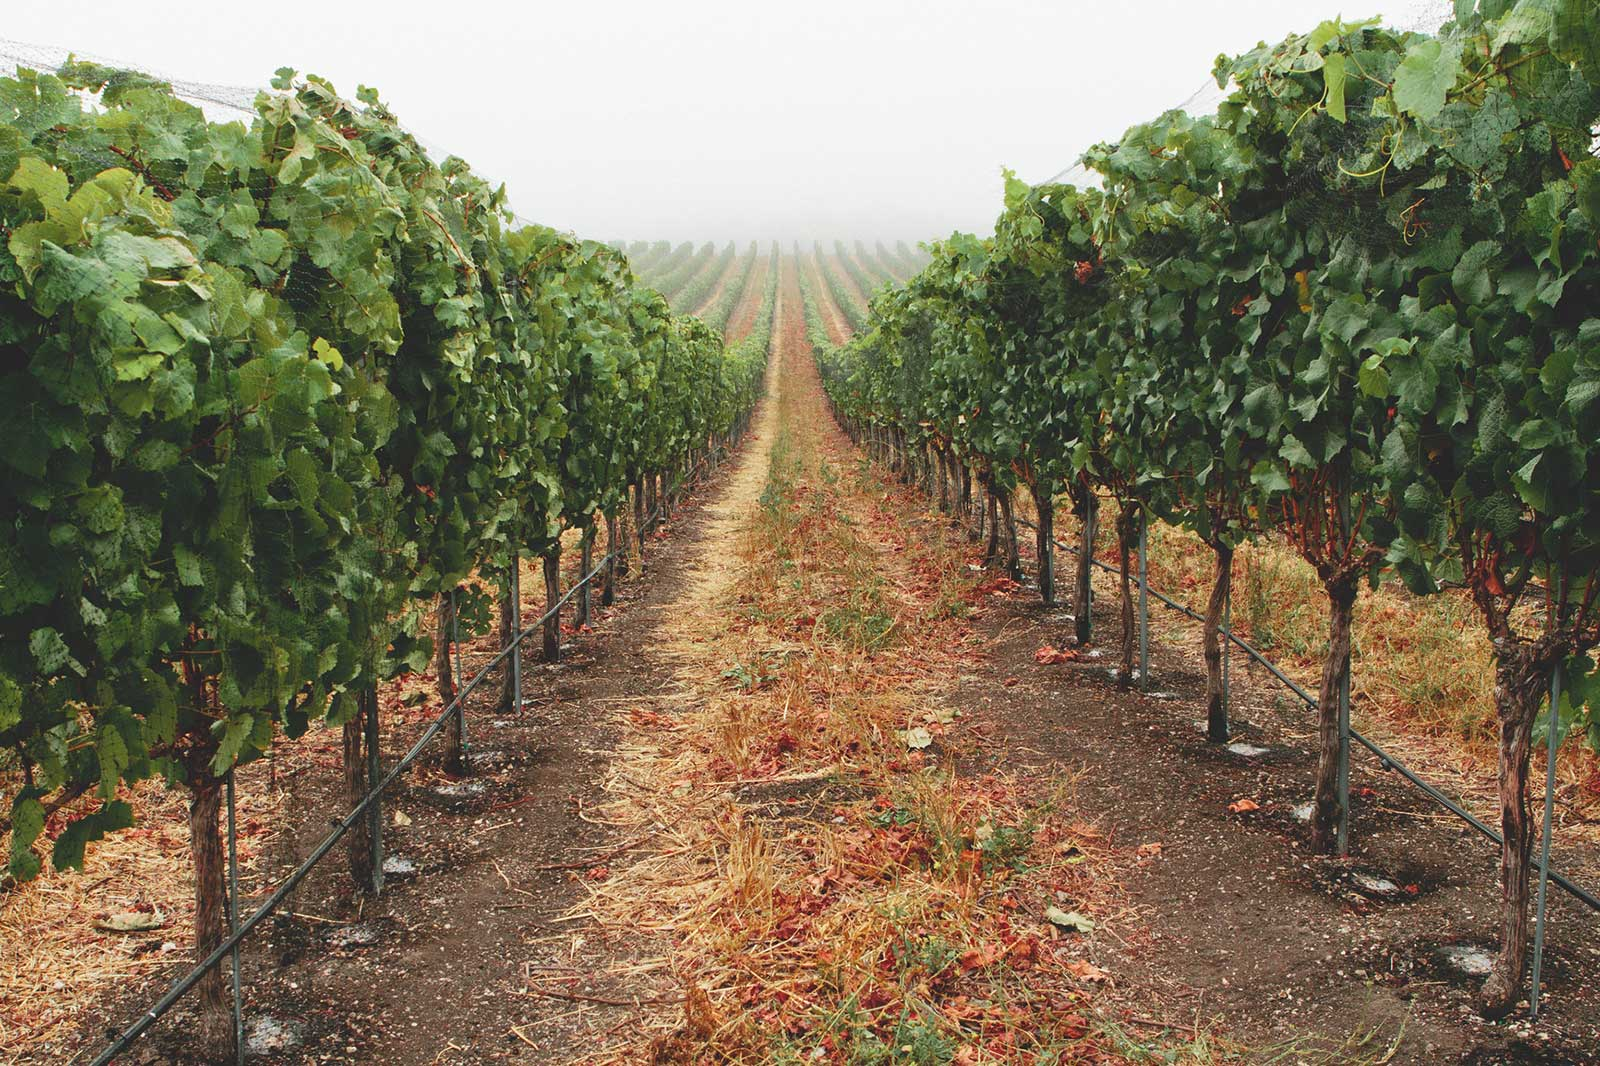
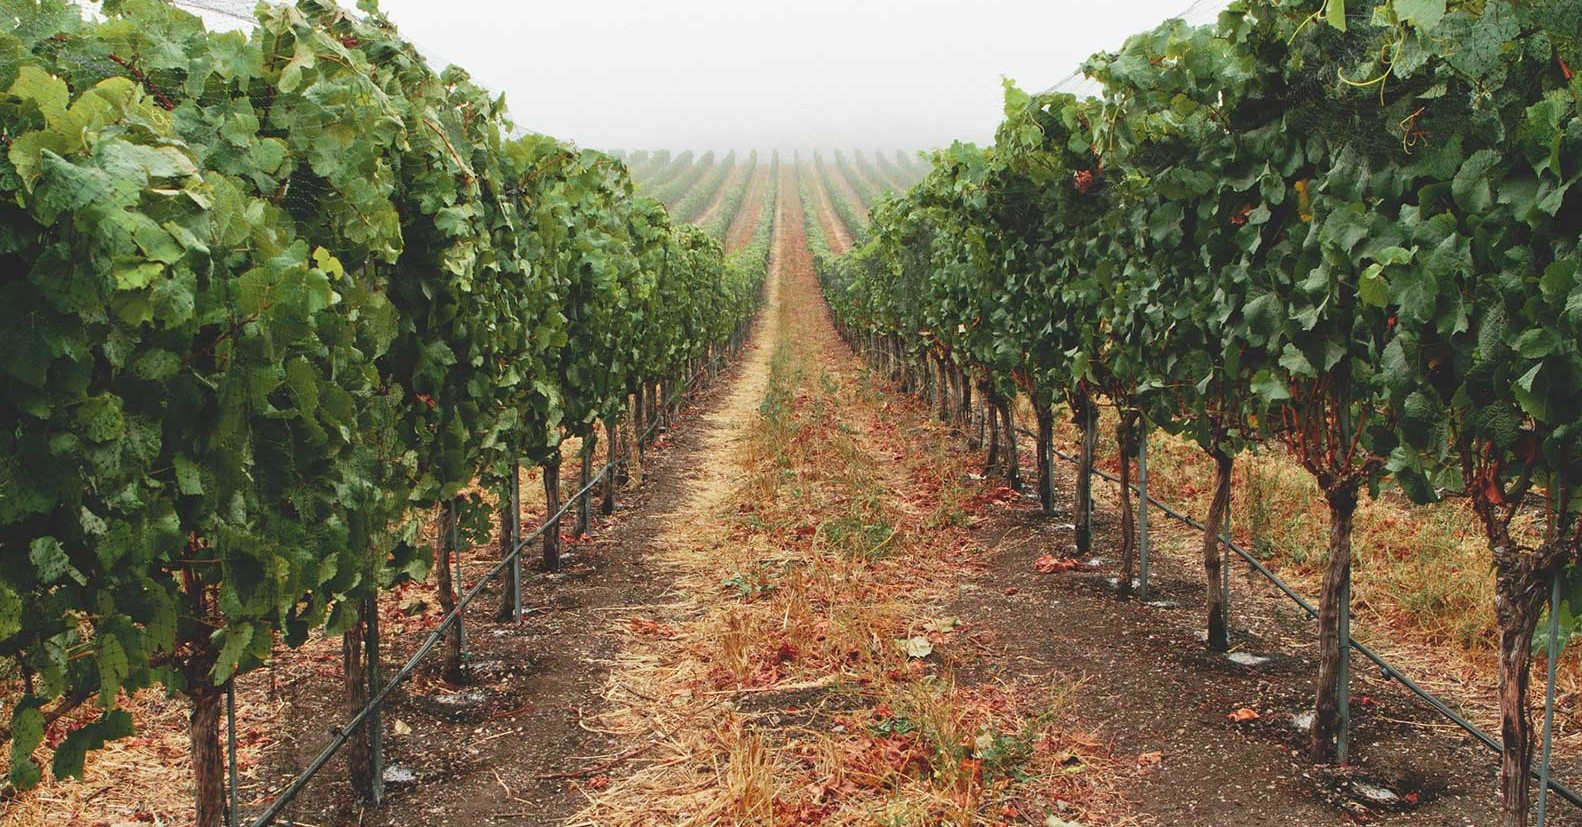
11Lesson/01HW

diff --git a/11Lesson/01Homework/index.html b/11Lesson/01Homework/index.html
@@ -5,7 +5,7 @@
   <link rel="stylesheet" href="css/reset.css">
   <link rel="stylesheet" href="css/style.css">
   <link rel="stylesheet" href="https://cdnjs.cloudflare.com/ajax/libs/materialize/0.97.8/css/materialize.min.css">
-  <meta name="viewport" content="width=device-width, initial-scale=1.0"/>
+  <!-- <meta name="viewport" content="width=device-width, initial-scale=1.0"/> -->
 </head>
 <body>
   <nav>
@@ -18,22 +18,22 @@
        </ul>
      </div>
    </nav>
-  <div class="parallax-container">
-    <div class="parallax"><img class="image-responsive" src="css/wine14.jpg"></div>
+  <div>
+    <div class="imagetop"><img class="photof" src="css/wine1.png"></div>
   </div>
   <div class="section">
-    <div class="top col-md-6">
+    <div class="top col-sm-12 col-md-6">
       <p class="h2 header">• EST. 1968 •</p>
       <p class="h3">Combining over 100 years of hard work and shared family knowledge</p>
       <br />
       <p class="para">Sed ut perspiciatis unde omnis iste natus error sit voluptatem accusantium doloremque laudantium, totam rem aperiam, eaque ipsa quae ab illo inventore veritatis et quasi architecto beatae vitae dicta sunt explicabo.</p>
       <img src="css/wine2.png">
     </div>
-    <div class="two col-md-6"><img class="image-responsive right-pic" src="css/wine16.jpg">
+    <div class="two col-sm-12 col-md-6"><img class="col-sm-12 image-responsive right-pic" src="css/wine16.jpg">
   </div>
 </div>
-  <div class="parallax-container">
-    <div class="parallax"><img src="css/wine13.jpg">
+  <div>
+    <div><img src="css/wine13.jpg">
       <h4>We've been producing fine wine for over 65 years, I think we know what we're talking about</h4>
     </div>
   </div>

diff --git a/11Lesson/01Homework/css/style.css b/11Lesson/01Homework/css/style.css
@@ -10,9 +10,19 @@
    flex-direction: row;
  }
 
-.right-pic {
+ .imagetop {
+   background-image: url("./wine14.jpg");
+   display: block;
+ }
 
-}
+ .photof {
+    opacity: 0.75;
+    height: 200px;
+    width: 200px;
+    /*background-image: url("./wine1.png");*/
+  }
+
+
 .top {
   text-align: center;
   width: 30%;
@@ -37,7 +47,7 @@
   font-size: 24px;
   line-height: 32px;
   font-weight: 300;
-      margin-bottom: 24px;
+  margin-bottom: 24px;
 }
 
 h4{
